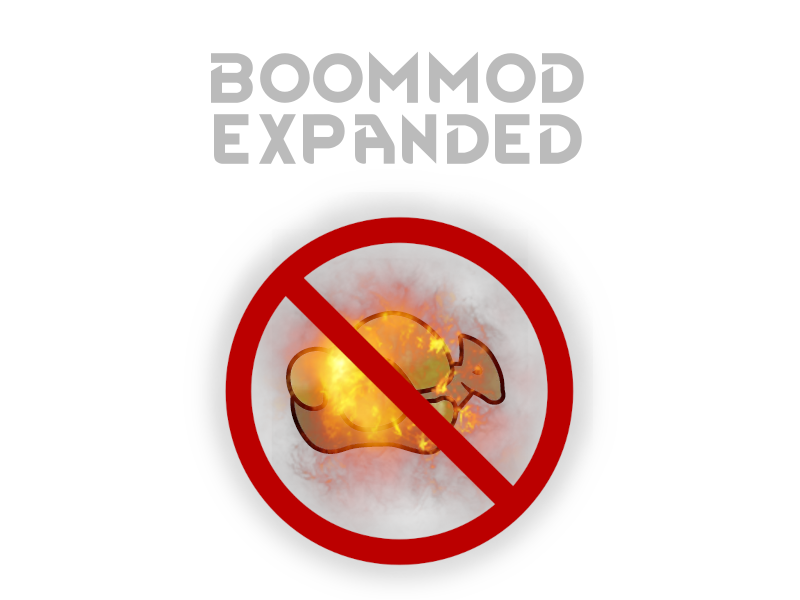
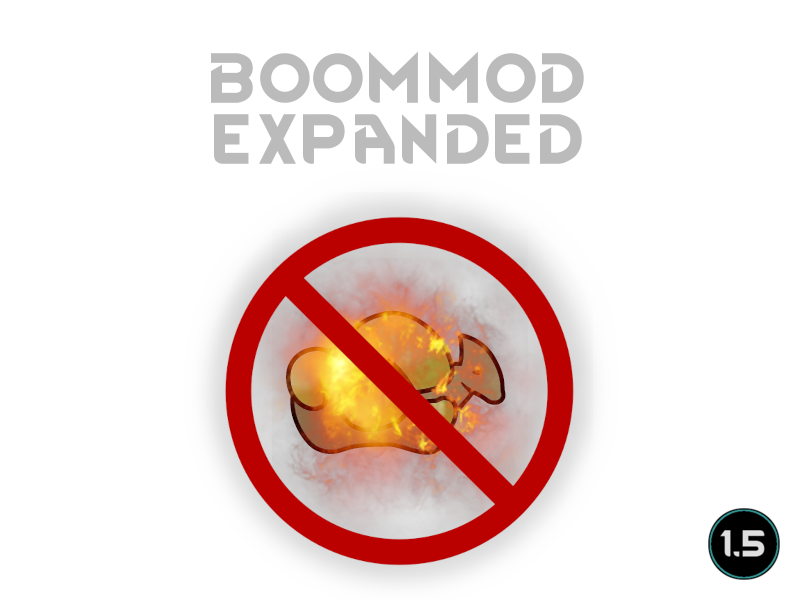
Mod updated for 1.5 and passed autotests

Changed region(s): [[0.875, 0.84, 1.0, 0.99]]

diff --git a/Source/BoomModExpanded/Evaluator.cs b/Source/BoomModExpanded/Evaluator.cs
@@ -9,9 +9,9 @@ internal static class Evaluator
 {
     private static readonly Dictionary<HediffDef, float> ExplosionChance = new Dictionary<HediffDef, float>
     {
-        { HediffDefOf.Burn, 1f },
-        { HediffDefOf.Gunshot, 1f },
-        { HediffDefOf.Shredded, 1f }
+        { HediffDef.Named("Burn"), 1f },
+        { HediffDef.Named("Gunshot"), 1f },
+        { HediffDef.Named("Shredded"), 1f }
     };
 
     private static List<string> ListedPawnKindDefs;
@@ -28,10 +28,10 @@ internal static class Evaluator
     public static void UpdateExploders()
     {
         var explodersLoaded = from exploder in DefDatabase<ThingDef>.AllDefsListForReading
-            where exploder.race is { deathActionWorkerClass: { } } &&
-                  exploder.race.deathActionWorkerClass.Name.EndsWith("Explosion")
+            where exploder.race is { deathAction.workerClass: not null } &&
+                  exploder.race.deathAction.workerClass.Name.EndsWith("Explosion")
             select exploder;
-        ListedPawnKindDefs = new List<string>();
+        ListedPawnKindDefs = [];
         var exploderNames = new List<string>();
         foreach (var exploder in explodersLoaded)
         {

diff --git a/Source/BoomModExpanded/Verse_BattleLogEntry_StateTransition.cs b/Source/BoomModExpanded/Verse_BattleLogEntry_StateTransition.cs
@@ -10,7 +10,7 @@ internal static class Verse_BattleLogEntry_StateTransition
 {
     private static void Prefix(Thing subject, ref RulePackDef transitionDef, Hediff culpritHediff)
     {
-        if (!(subject is Pawn pawn) || !Evaluator.IsListedPawnKind(pawn) ||
+        if (subject is not Pawn pawn || !Evaluator.IsListedPawnKind(pawn) ||
             Evaluator.IsExploding(pawn, culpritHediff))
         {
             return;

diff --git a/README.md b/README.md
@@ -2,20 +2,22 @@
 
 ![Image](https://i.imgur.com/iCj5o7O.png)
 
-- This is a fork of https://steamcommunity.com/sharedfiles/filedetails/?id=1504182014]BoomMod by Jaxe
-- The main difference is that this version works on all pawns that explode on death, for example the BoomBat from https://steamcommunity.com/sharedfiles/filedetails/?id=1963681588]Vanilla Animals Expanded — Australia
-- Requested by Malminas
+
+Creatures will only explode on death when the killing blow is a gunshot, burn, another explosion or they are otherwise on fire at the time. This is a fork of https://steamcommunity.com/sharedfiles/filedetails/?id=1504182014]BoomMod by Jaxe
+
+The main difference is that this version works on all pawns that explode on death, for example the BoomBat from https://steamcommunity.com/sharedfiles/filedetails/?id=1963681588]Vanilla Animals Expanded — Australia
+
 - Added options for selecting exploding conditions
 - Works well with https://steamcommunity.com/sharedfiles/filedetails/?id=2324221340]Predators Hunt Boom Critters by velcroboy333
 
-![Image](https://i.imgur.com/Z4GOv8H.png)
+Requested by Malminas
 
-With this mod Boomalopes and Boomrats will only explode on death when the killing blow is a gunshot, burn, another explosion or they are otherwise on fire at the time. Melee weapons, medieval ranged weapons and natural causes do not trigger an explosion.
+![Image](https://i.imgur.com/Ds0rBAD.png)
 
+Since modding is just a hobby for me I expect no donations to keep modding. If you still want to show your support you can gift me anything from my https://store.steampowered.com/wishlist/id/Mlie]Wishlist or buy me a cup of tea.
 
-**This mod can be added or removed from a game at any time without issue.**
+https://ko-fi.com/G2G55DDYD]![Image](https://i.imgur.com/VWG0yff.png)
 
-*With these animals less likely to explode it may seem logical that they should be hunted by predators. https://steamcommunity.com/sharedfiles/filedetails/?id=1511181700]Boom Boom Is Prey by Walking Problem is a mod that does just that and should have no compatibility issues with this one so check that out.*
 
 ![Image](https://i.imgur.com/5xwDG6H.png)
 
@@ -23,10 +25,13 @@ With this mod Boomalopes and Boomrats will only explode on death when the killin
 
 -  See if the the error persists if you just have this mod and its requirements active.
 -  If not, try adding your other mods until it happens again.
--  Post your error-log using https://steamcommunity.com/workshop/filedetails/?id=818773962]HugsLib and command Ctrl+F12
+-  Post your error-log using https://steamcommunity.com/workshop/filedetails/?id=818773962]HugsLib or the standalone https://steamcommunity.com/sharedfiles/filedetails/?id=2873415404]Uploader and command Ctrl+F12
 -  For best support, please use the Discord-channel for error-reporting.
 -  Do not report errors by making a discussion-thread, I get no notification of that.
 -  If you have the solution for a problem, please post it to the GitHub repository.
+-  Use https://github.com/RimSort/RimSort/releases/latest]RimSort to sort your mods
 
 
-https://steamcommunity.com/sharedfiles/filedetails/changelog/2359846788]Last updated 2023-06-22
+
+https://steamcommunity.com/sharedfiles/filedetails/changelog/2359846788]![Image](https://img.shields.io/github/v/release/emipa606/BoomModExpanded?label=latest%20version&style=plastic&labelColor=0070cd&color=white)
+
